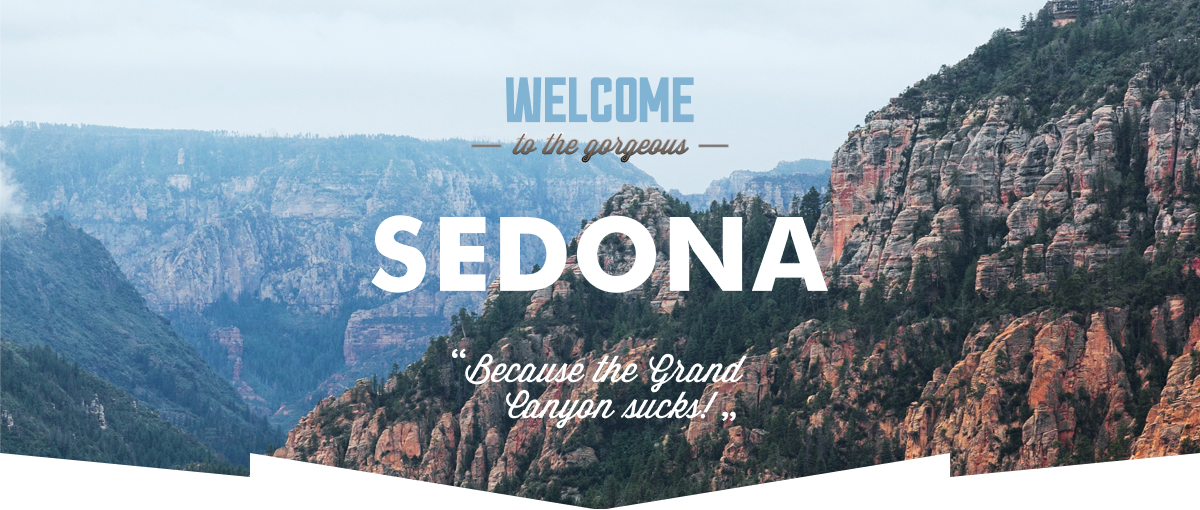
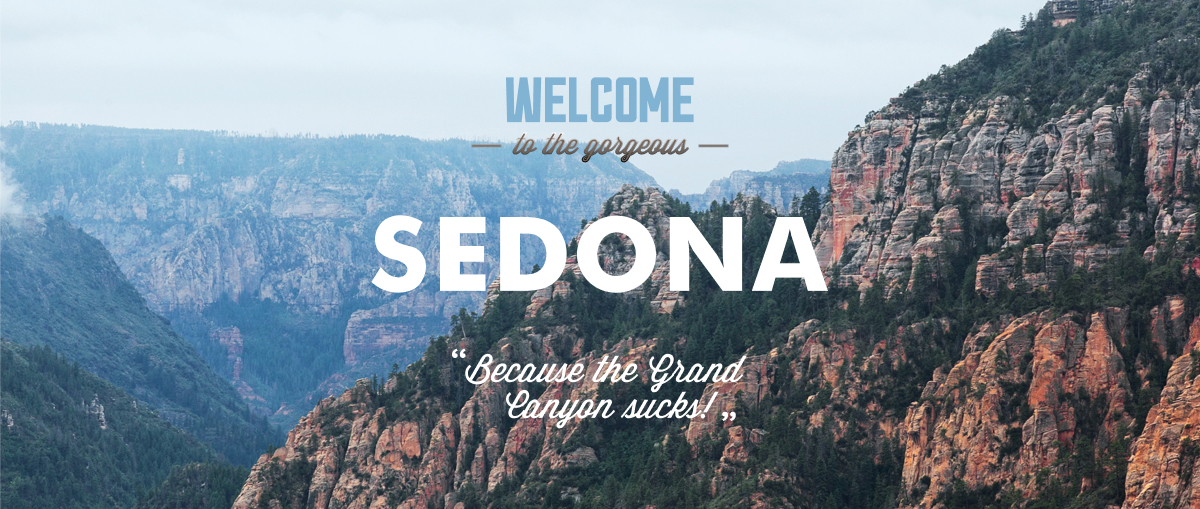
исправил

diff --git a/index.html b/index.html
@@ -19,7 +19,7 @@
     </header>
     <main>
       <section>
-        <a><img src="img/background.jpg" width="1200" height="510" alt="Картинка welcom sedona"></a>
+        <a><img src="img/Welcom Srdona.svg" width="456.65" height="350.88" alt="welcom sedona"></a>
       </section>
       <section>
         <p>Седона — небольшой городок в Аризоне, заслуживающий большего!</p>
@@ -103,7 +103,7 @@
             <button type="button">Ок</button>
           </p>
           <p><button>Найти</button></p>
-          <img src="img/map.jpg" width="1199" height="594" alt="Карта Седона">
+          <img src="img/map.png" width="1199" height="594" alt="Карта Седона">
         </form>
       </section>
     </main>
